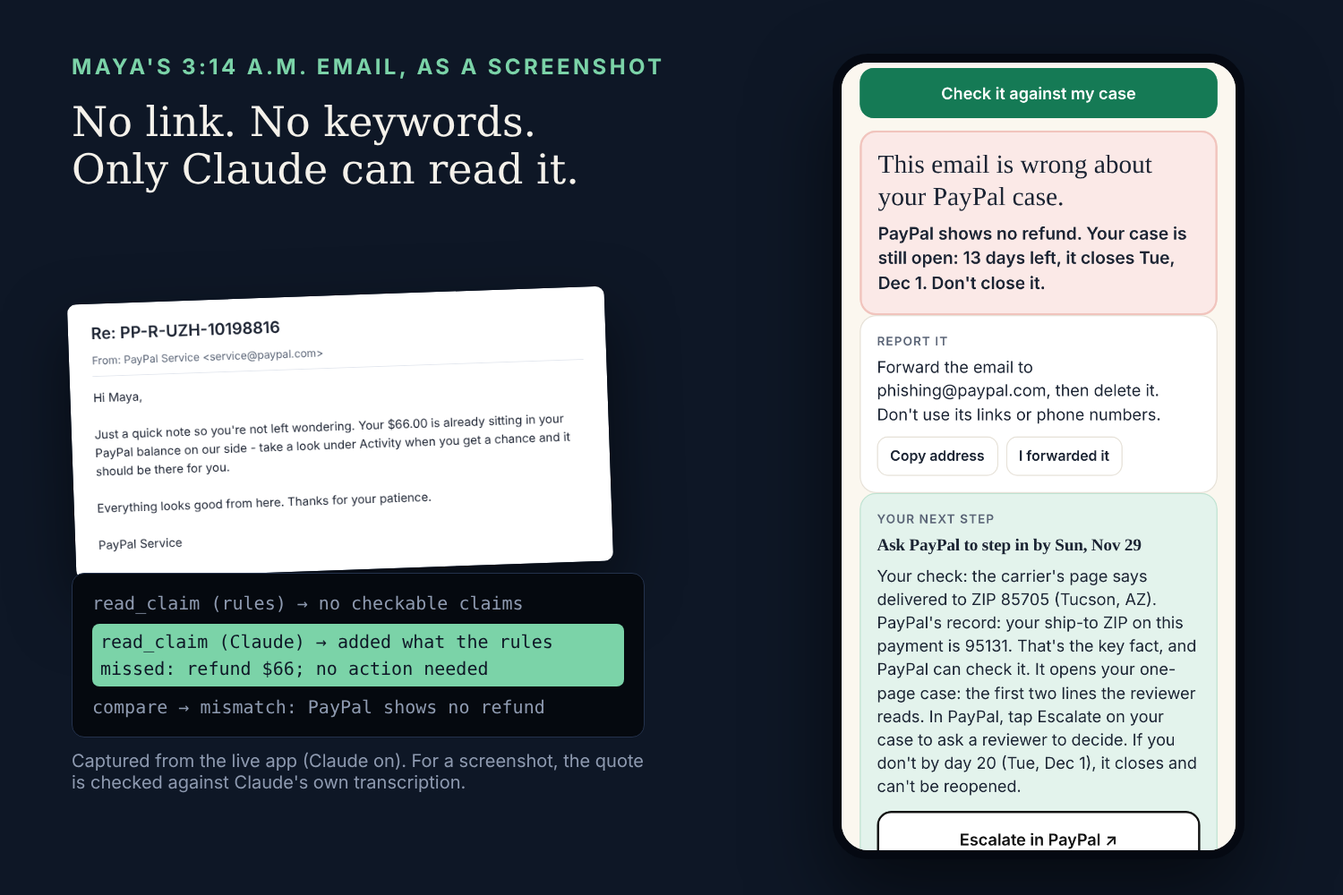
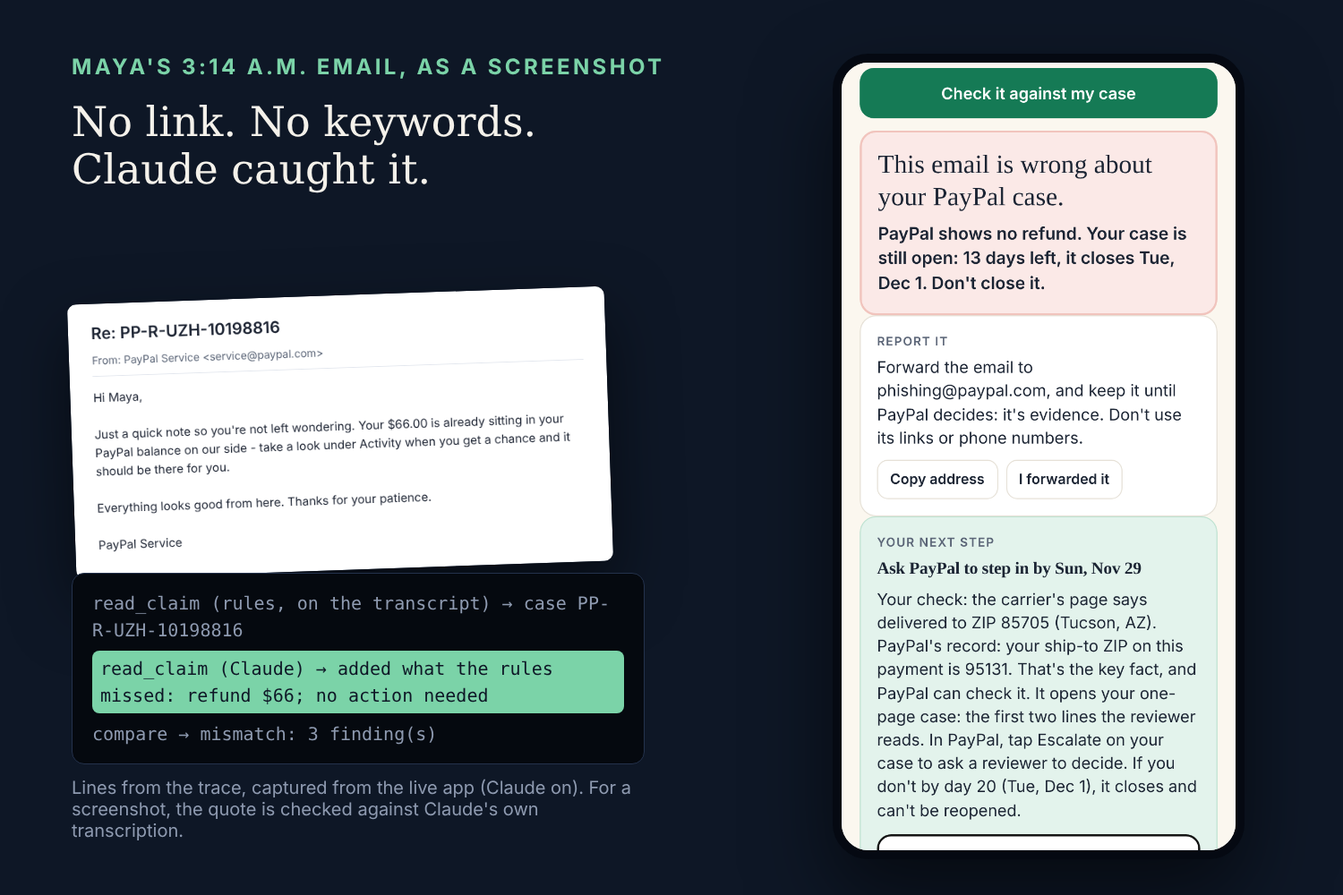
Round-3 live results: real-world scam messages (rules 5/6 'Don't close it', Claude adds nothing), set 8 after the fix, scam re-run; OCR baseline and offline realworld script; Devpost text, gallery and v13 video script

Changed region(s): [[0.644, 0.434, 0.92, 0.961], [0.0613, 0.651, 0.4907, 0.93], [0.0613, 0.155, 0.4293, 0.217]]

diff --git a/docs/DEVPOST.md b/docs/DEVPOST.md
@@ -4,7 +4,9 @@
 **Tagline:** Emails can lie. Your PayPal case can't.
 **Try it:** https://day20.onrender.com (tap "Try it as Maya", no sign-in) · **Code:** https://github.com/dalyathan/day20 (MIT)
 
-**In one line:** a fake "your refund is already in your balance" email, sent as a screenshot, checked against the buyer's real PayPal case: keyword rules can't read it, Claude can, and code makes the call.
+**In one line:** Day 20 checks any email about a PayPal dispute against the buyer's real case, and never calls a scam safe. Claude reads the email or a screenshot; code makes the call and keeps the 20-day clock.
+
+**Why not just open the PayPal app?** The app shows the status, but not whether *this email* is lying, which of its claims are false, or what to do before the case closes by itself.
 
 ## Inspiration
 
@@ -14,9 +16,11 @@ At 3:14 a.m., on her break, an email arrives from "PayPal Service" about her cas
 
 No link, no "click here", nothing a keyword filter flags. And it isn't true. The seller wrote it; he can see her case number. The `service@paypal.com` on the From line proves nothing: display names can be faked, and anyone with a PayPal account can even get PayPal's real servers to deliver their own words in an invoice or money-request note ([KnowBe4](https://blog.knowbe4.com/paypal-scam-from-paypal), [Malwarebytes](https://www.malwarebytes.com/blog/news/2026/04/more-paypal-emails-hijacked-to-deliver-tech-support-scams)). If Maya believes it and waits, her case closes by itself on Tue, Dec 1, day 20. A closed case can't be reopened, and the $66 is gone.
 
-She has ten minutes on a night break, so Day 20's answer is one line, and the deadline is a date, not a rule to look up. Online shopping was the second most reported fraud category in the FTC's 2024 data ([FTC](https://www.ftc.gov/news-events/news/press-releases/2025/03/new-ftc-data-show-big-jump-reported-losses-fraud-125-billion-2024)). Maya is our persona, not a real user: we role-played 24 dispute scenes like hers with AI agents to design Day 20. In those scenes, honest buyers mostly lost *before* review, to the clock and to emails like this one, not *at* review.
+She has ten minutes on a night break, so Day 20's answer is one line, and the deadline is a date, not a rule to look up. Online shopping was the second most reported fraud category in the FTC's 2024 data ([FTC](https://www.ftc.gov/news-events/news/press-releases/2025/03/new-ftc-data-show-big-jump-reported-losses-fraud-125-billion-2024)).
 
-**How her night ends in the demo:** Maya screenshots the email and asks Day 20. It says the email is wrong: PayPal shows no refund, and the case is open, 13 days before it closes. She checks the USPS page herself, types in the Tucson ZIP, and escalates in PayPal. Her one-page case opens with the two ZIPs the reviewer can check. At 3:19 a.m. she's back with her patients. The reviewer decides; Day 20 only made sure the case was still open when Maya acted.
+**How her night ends in the demo:** Maya screenshots the email and asks Day 20. It says the email is wrong: PayPal shows no refund, and the case is open, 13 days before it closes. She checks the USPS page herself, types in the Tucson ZIP, and escalates in PayPal. Her one-page case opens with the two ZIPs the reviewer can check. At 3:19 a.m. she's back with her patients. On Dec 1 her case is with a reviewer, not closed. The reviewer decides; Day 20 only made sure the case was still open when Maya acted.
+
+*Maya is a persona. We designed Day 20 by role-playing 24 dispute scenes like hers with AI agents; in them, honest buyers mostly lost before review, to the clock and to emails like this one.*
 
 ## What it does
 
@@ -30,34 +34,38 @@ Day 20 is a buyer safety layer for PayPal disputes, built so PayPal could ship i
 - **Drafts a one-page case for the reviewer.** Its first two lines are the facts she can check: the carrier's delivered ZIP (on tracking the seller added) and PayPal's ship-to ZIP. Every line is labelled `PAYPAL RECORD`, `PAYPAL CAN CHECK` or `BUYER REPORTS`.
 - **Reminders she chooses** (day 15 and day 18), silent by default.
 
-It never files, escalates, closes or accepts anything. She does that in PayPal. Its PayPal client refuses any call that isn't a read, and a test checks that; the only writes are the setup scripts that create the sandbox case. Pasted emails go to Anthropic's API to be read. Day 20 doesn't keep the email text, but Anthropic's API data policy applies. Reminder emails, if she chooses them, go through Resend.
+It never files, escalates, closes or accepts anything. She does that in PayPal. It's read-only by code: its PayPal client refuses any call that isn't a read, and a test checks that. (The sandbox credentials themselves could write; the only writes are the setup scripts that create the sandbox case.) Pasted emails go to Anthropic's API to be read, under Anthropic's API data policy. Day 20 doesn't store the email; it keeps the extracted facts (amounts, link hosts, tracking numbers, the verdict) with the case, so the one-page case can cite them, for 7 days in the demo and 60 days when signed in. Reminder emails, if she chooses them, go through Resend.
 
 ## What Claude does, and what it doesn't
 
 Claude makes two decisions:
 1. **What does this email claim?** It reads reworded lies and screenshots that keyword rules can't. A red flag only counts if Claude quotes the sentence and code confirms it's in the email and isn't negated or hypothetical. (For a screenshot the quote is checked against Claude's own transcription, so that check is weaker.) Amounts must appear in the email too.
-2. **Which code-written sentences does Maya read?** Code writes every sentence; Claude picks from them. Claude can add a warning but never remove one. (We haven't measured whether Claude's choice beats a fixed order.)
+2. **Which code-written sentences does Maya read?** Code writes every sentence; Claude picks from them. (We haven't measured whether Claude's choice beats a fixed order.)
+
+On pasted text, Claude can add a warning but never remove one: the keyword rules always run too. On a screenshot Claude is the only reader, so it could miss a claim, but the worst case is still amber ("go by your PayPal case"), never "safe".
 
 Code decides the rest: each claim against PayPal's record, the verdict, the deadline and the next step.
 
-**Results on the deployed app, with Claude on** (claude-sonnet-5-5; check code at commit 197d0f3, unchanged in 95b7bb3). Raw rows: [`tests/live/`](https://github.com/dalyathan/day20/tree/main/tests/live); summary: `npm run live-summary`; re-run them yourself by pasting `scripts/live-eval-browser.js` into the browser console on the live site.
+**Results on the deployed app, with Claude on** (claude-sonnet-5-5). Raw rows are in [`tests/live/`](https://github.com/dalyathan/day20/tree/main/tests/live) (exported from the browser and re-expanded; see its README), `npm run live-summary` prints the table, `npm run realworld` re-checks the rules-only column offline (with OCR for screenshots), and `scripts/live-eval-browser.js` re-runs it from the console on the live site.
+
+**No scam was ever called safe.** Every email that isn't flagged red gets the amber "Go by your PayPal case, not this email", genuine ones too. That floor is by design, so the rows below measure what goes beyond it.
 
 | | Keyword rules alone | With Claude |
 |---|---|---|
-| Scam emails flagged red (the 24 we tuned on) | 9 / 24 | **11 / 24 in each of 3 runs** (the same 11 every time) |
-| Genuine emails wrongly flagged red (36) | 0 / 36 | **0 / 36 in each of 2 runs** |
-| Scam **screenshots** flagged red (all 24, one run) | can't read images | **11 / 24: the same 11 as the text** |
+| **Real messages scam sellers sent buyers** (6, quoted word for word in public threads, never tuned on): told "Don't close it" | 5 / 6 | **5 / 6 in all 3 runs**; Claude added nothing |
+| Scam emails flagged red (24, tuned on) | 9 / 24 | **11 / 24 in each of 3 runs**, the same 11 |
+| Scam screenshots flagged red (all 24) | 9 / 24 with OCR (tesseract) first | **11 / 24**, the same 11 as the text |
+| Genuine emails wrongly flagged red (36, tuned on) | 0 / 36 | **0 / 36 in each of 2 runs** |
 
-- **What Claude adds on text is narrow: 2 of 24, both reworded refund lies like Maya's** ("already sitting in your PayPal balance"). It catches them in all 3 runs. The other 13 scams aren't flagged red by either reader; they get the amber "go by your PayPal case, not this email", which every email that isn't flagged red gets, genuine ones included.
-- **On screenshots, Claude is the only reader.** It transcribes the image, then the same checks run. Over all 24 scam screenshots it flagged the same 11 as the text versions, so reading an image costs nothing. Screenshots of 6 held-out genuine emails: 1 flagged, the same different-shop refund the rules flag as text.
-- **Genuine email it had never seen** (held-out set 8: 12 emails by a fresh writer, frozen before scoring): 11/12 left alone in each of 3 runs at commit 2ddc64e, and in 1 run on the current code (95b7bb3). Keyword rules alone also score 11/12, and Claude can't remove a flag, so this shows Claude **added no false alarm**, not that it fixed one.
-- **Not measured:** unseen scams (a fresh agent asked to write new ones was stopped by a safety check, and we didn't work around it), and whether Claude's choice of sentences beats a fixed order.
-
+- **The real-world set is the honest test, and Claude adds nothing there.** Five of the six are "close the dispute and we'll refund you"; the keyword rules already catch that request and say "Don't close it." The sixth threatens that a dispute "could result in zero funds being returned"; both readers give it only the general amber warning. None of the six claims anything about her case's record, so none is red. ([sources](https://github.com/dalyathan/day20/blob/main/tests/realworld/SOURCES.md))
+- **What Claude adds is narrow: 2 of 24 tuned-on scams, both reworded refund lies**, including Maya's own email (it's in our test set). It catches them in every run, as text and as a screenshot. On a screenshot, Claude reads what OCR plus the same rules would, plus those 2.
+- **Genuine email it had never seen** (set 8: 12 emails by a fresh writer, frozen before scoring): 11/12 left alone in every run, the same as the rules alone, so Claude added no false alarm. The miss was a real $27.50 refund from another shop, flagged red and marked "report it". We fixed that after scoring (a refund of another amount that doesn't name her case is now "may be another purchase"), so set 8 is now 12/12 and no longer counts as unseen.
+- **Commits:** tuned-on runs at 197d0f3 and 95b7bb3 (same check code); the real-world set, set 8 and a scam re-run at f0c0afd, after the fix above (scams: 11/24 again, the same 11). **Not measured:** unseen scams written to beat Day 20 (an AI agent asked to write them was stopped by a safety check, and we didn't work around it), and whether Claude's choice of sentences beats a fixed order.
 
 ## How we built it
 
-- **PayPal (sandbox):** Disputes API, then the capture's `up` link to Orders v2 for the ship-to address and trackers, plus the Tracking API. Maya's case is a real sandbox dispute: a $66 order, captured, seller tracking added, "item not received". The demo is a labelled replay of it at the open stage, read through our own test seller account.
-- **Why not PayPal's Agent Toolkit?** Its dispute tools are merchant-side and include `accept_dispute_claim`. Day 20 is for the buyer and must not be able to act, so it makes only the read calls.
+- **PayPal (sandbox):** Disputes API, then the capture's `up` link to Orders v2 for the ship-to address and trackers, plus the Tracking API. Maya's case is a real sandbox dispute: a $66 order, captured, seller tracking added, "item not received". We created it in one sitting, so it was paid and disputed minutes apart, and PayPal has since moved it to review. The demo is a labelled replay of it set back to the open stage at day 7, read through our own test seller account.
+- **Why not PayPal's Agent Toolkit?** It can be configured to list and get disputes only, but it runs on merchant credentials, and we wanted the no-writes guarantee in our own small client, enforced and tested in code. The MCP server could sit on the Toolkit's read actions instead.
 - **Agent:** a Claude tool loop, all read-only. Most of its tools just hand Claude the case, the comparison and the sentence options; the two decisions above are the real work.
 - **Also:** Node 22 with zero dependencies on Render; an MCP server with five read-only functions (it uses the rules reader, and your own assistant does the reading); a Postman collection of every PayPal call (its Day 20 folder runs in CI); web push from the RFCs; Spanish.
 
@@ -78,7 +86,7 @@ It isn't a "file more claims" button. In 8 of our 24 designed scenes it says **d
 ## Accomplishments that we're proud of
 
 - The model can't write a sentence Maya reads, and its red flags must quote the email.
-- Read-only isn't just a promise: the PayPal client refuses writes, and a test proves it.
+- Read-only by code: the PayPal client refuses writes, and a test checks it.
 - We publish our misses, and every email-test number re-runs, including held-out scores from old commits.
 
 ## What we learned
@@ -88,7 +96,7 @@ The most useful thing an agent can do here is boring: keep the clock, compare cl
 ## What's next: our asks to PayPal
 
 1. **Label seller-written text in PayPal's own emails.** Invoice and money-request notes arrive from `service@paypal.com`. Mark them "written by the seller", and block refund claims and dispute case numbers in them.
-2. **Put the carrier's delivered ZIP on the dispute record,** and flag a mismatch with the ship-to ZIP to the reviewer. That helps reviewers whether or not anyone uses Day 20.
+2. **Show the buyer the delivery mismatch before day 20.** Reviewers already check proof of delivery against the ship-to address; buyers don't see that comparison until it's too late. Put the carrier's delivered ZIP next to the ship-to ZIP on the buyer's case page.
 3. **Let buyers consent to `disputes/read-buyer` for an outside app,** and extend dispute webhooks to buyers, so reminders follow the case's real status. Or ship Day 20 inside PayPal's dispute screens: it's MIT-licensed and only reads.
 
 ## Built with

diff --git a/docs/VIDEO_SCRIPT.md b/docs/VIDEO_SCRIPT.md
@@ -1,26 +1,27 @@
-# Video: Day 20 (2:13, captions, no voiceover)
+# Video: Day 20 (2:30, captions, no voiceover)
 
 Every word on screen is a caption; there's no narration. The phone footage is a scripted recording of the app
-(commit 95b7bb3) with the saved sandbox case, replayed and set to "open" at day 7. The check shows **Claude's
-responses captured from the live app** (day20.onrender.com, commit 95b7bb3), rendered by the same app, and a caption
+(commit f0c0afd) with the saved sandbox case, replayed and set to "open" at day 7. The check shows **Claude's
+responses captured from the live app** (day20.onrender.com, commit f0c0afd), rendered by the same app, and a caption
 says so. Maya and Rosa are animated SVG characters from `public/characters.js`. The whole video uses one flat
 background colour.
 
 | Time | On screen | Caption |
 |---|---|---|
-| 0:00–0:08 | Night. Her email, from "PayPal Service": "Your $66.00 is already sitting in your PayPal balance … Everything looks good from here." | "3:14 a.m. Maya, an ICU nurse, is on her break. The dress she bought for her best friend's wedding never came. Her PayPal case is open. Then this arrives." |
-| 0:08–0:12 | A closed case card. | "If she believes it and waits: Tue, Dec 1 · day 20. Case closed. It can't be reopened. The $66 is gone." |
-| 0:12–0:20 | Maya (animated). | "It isn't true. The seller wrote it; he can see her case number. The PayPal address proves nothing: scammers can even get real PayPal emails sent with their own words in them. Maya isn't giving up." |
-| 0:20–0:28 | Phone: home, then her case: day 7 of 20, closes Tue, Dec 1. | "Day 20 reads her PayPal case. Status, refund, ship-to ZIP, tracking, and the 20-day clock. It only reads: it can't change anything in PayPal." Small: "Demo: our own sandbox case, read through our test seller account and set to 'open' at day 7. Real buyers would need PayPal to let an outside app read their case." |
-| 0:28–0:36 | Phone: she types Tucson, AZ / 85705 / the carrier's delivery line and saves. The next step now reads "Your check: … 85705 … PayPal's record: your ship-to ZIP … 95131". | "Then Maya checks for herself. The USPS page says delivered in Tucson, 85705. She lives in San Jose, 95131. She types it in, and Day 20 labels it as her check, next to PayPal's ship-to ZIP." |
-| 0:36–0:48 | Phone: "Or as a screenshot" loads her email as an image; "Checking…"; "This email is wrong about your PayPal case." | "She screenshots the email and asks Day 20. No link, no 'click here': nothing a keyword filter would flag. Keyword rules can't read an image at all. Claude can." Small: "Claude's answers in this video were captured from the live app, then replayed in a scripted recording." |
-| 0:48–0:55 | Phone: the trace. Card: `read_claim (rules) → no checkable claims`, then, highlighted, `read_claim (Claude) → added what the rules missed: refund $66; no action needed`. | "Claude caught the lie. Rules found nothing. Claude found the claim: $66 refunded, no action needed. Code checked it against PayPal's record: no refund. The case is open." Small: "For a screenshot, Claude's quote is checked against its own transcription of the image." |
-| 0:55–1:03 | Phone: next step, with an outlined "Escalate in PayPal ↗" button. | "Escalate by Sun, Nov 29. Two days before the case closes on Tue, Dec 1. Day 20 never files: she taps Escalate in PayPal herself." |
-| 1:03–1:13 | Phone: the one-page case. | "For the reviewer: the facts she can check, first. Line 1: the carrier's ZIP, on the tracking the seller added. Line 2: PayPal's ship-to ZIP. Every line is labelled: PayPal's record, PayPal can check, or Maya's words." |
-| 1:13–1:23 | Rosa (animated), the reviewer. | "Rosa reviews PayPal disputes. She opens Maya's case with the one-page summary attached, and checks the first two lines: the carrier's ZIP and PayPal's ship-to ZIP. Because Maya acted before day 20, there's still a case to review." |
-| 1:23–1:31 | Maya (animated), smiling. | "3:19 a.m. Five minutes. She escalated in PayPal herself, 13 days before her case would have closed. The two ZIPs are ready for the reviewer. Then back to her patients." |
-| 1:31–1:40 | Under the hood. | "Claude reads. Code decides. Claude decides 1: what does this email claim? Every red flag must quote it. Code decides: each claim against PayPal's record, the verdict, the deadline. Claude decides 2: which code-written sentences Maya reads. Never: anything written to PayPal. Maya files, escalates and decides." |
-| 1:40–1:52 | Results, live app. | Scam emails flagged red: keyword rules alone 9/24; with Claude 11/24, the same 11 in all 3 runs. Scam screenshots flagged red: rules can't read them; with Claude 11/24, the same 11 as the text. Genuine emails wrongly flagged red: 0/36 and 0/36 (2 runs). "Claude's 2 extra catches are reworded refund lies, like Maya's. These are emails we tuned on; unseen scams aren't measured yet." Small: "Commit 197d0f3 · claude-sonnet-5-5 · raw results in the repo". |
-| 1:52–2:00 | Unseen genuine email. | "12 new genuine emails, frozen before scoring: 11 left alone, in every run with Claude. Keyword rules alone also leave 11 alone, so Claude added no false alarm. The one miss, in text and as a screenshot: a real refund from a different shop." |
-| 2:00–2:06 | How we tested it. | "AI agents played scammers and honest senders, scoring a point for every mistake they caused. Each mistake became a test. The email numbers re-run from the repo, and from a browser on the live app." |
-| 2:06–2:13 | End card. | "Emails can lie. Your PayPal case can't. Day 20 · day20.onrender.com · Sandbox prototype · read-only by code · free for buyers · open source (MIT). Built on PayPal's sandbox APIs. Not affiliated with or endorsed by PayPal. PayPal decides every case." |
+| 0:00–0:09 | Night. Her email, from "PayPal Service": "Your $66.00 is already sitting in your PayPal balance … Everything looks good from here." | "3:14 a.m. Maya, an ICU nurse, is on her break. The dress she bought for her best friend's wedding never came. Her PayPal case is open. Then this arrives." |
+| 0:09–0:14 | A closed-case card. | "If she believes it and waits: Tue, Dec 1 · day 20. Case closed. It can't be reopened. The $66 is gone." |
+| 0:14–0:24 | Maya (animated). | "It isn't true. The seller wrote it; he can see her case number. The PayPal address proves nothing: scammers can even get real PayPal emails sent with their own words in them. Maya isn't giving up." |
+| 0:24–0:33 | Phone: home, then her case: day 7 of 20, closes Tue, Dec 1. Next step: "Tell Day 20 what the tracking says". | "Day 20 reads her PayPal case. Status, refund, ship-to ZIP, tracking, and the 20-day clock. It only reads: it can't change anything in PayPal." Small: "Demo: our own sandbox case, read through our test seller account and set to 'open' at day 7. Real buyers would need PayPal to let an outside app read their case." |
+| 0:33–0:42 | Phone: she types Tucson, AZ / 85705 / the carrier's delivery line and saves; the next step becomes "Ask PayPal to step in by Sun, Nov 29" with "Your check: … 85705 … PayPal's record: … 95131". | "Then Maya checks for herself. The USPS page says delivered in Tucson, 85705. She lives in San Jose, 95131. She types it in, and Day 20 labels it as her check, next to PayPal's ship-to ZIP." |
+| 0:42–0:54 | Phone: "Or as a screenshot" loads her email as an image; "Checking…"; "This email is wrong about your PayPal case." | "She screenshots the email and asks Day 20. No link, no 'click here': nothing a keyword filter would flag. Claude reads the screenshot." Small: "Claude's answers in this video were captured from the live app, then replayed in a scripted recording." |
+| 0:54–1:01 | Phone: the trace. Card with three real trace lines: `read_claim (rules, on the transcript) → case PP-R-UZH-10198816`, highlighted `read_claim (Claude) → added what the rules missed: refund $66; no action needed`, `compare → mismatch: 3 finding(s)`. | "Claude caught the lie. The keyword rules found no refund claim. Claude found it: $66 refunded, no action needed. Code checked it against PayPal's record: no refund." Small: "Without Claude she'd still see amber and the same deadline. With it, she knows the email is wrong, and why. (For a screenshot, the quote is checked against Claude's own transcription.)" |
+| 1:01–1:09 | Phone: next step and the outlined "Escalate in PayPal ↗" button; "Forward it to phishing@paypal.com, and keep it: it's evidence for your case." | "Escalate by Sun, Nov 29. Two days before the case closes on Tue, Dec 1. Day 20 never files: she taps Escalate in PayPal herself." |
+| 1:09–1:19 | Phone: the one-page case. | "For the reviewer: the facts she can check, first. Line 1: the carrier's ZIP, on the tracking the seller added. Line 2: PayPal's ship-to ZIP. Every line is labelled: PayPal's record, PayPal can check, or Maya's words." |
+| 1:19–1:27 | Maya (animated), smiling. | "3:19 a.m. Five minutes. She escalated in PayPal herself, 13 days before her case would have closed. The two ZIPs are ready for the reviewer. Then back to her patients." |
+| 1:27–1:32 | An open-case card. | "Because she acted: Tue, Dec 1 · day 20. With a PayPal reviewer. Still open. Still hers to win." |
+| 1:32–1:42 | Rosa (animated), the reviewer. | "Rosa reviews PayPal disputes. She opens Maya's case and checks the first two lines of her summary: delivered in Tucson, shipped to San Jose. Tracking to the wrong city isn't proof of delivery. Because Maya acted before day 20, there's still a case to review." |
+| 1:42–1:52 | Under the hood. | "Claude reads. Code decides. Claude decides 1: what does this email claim? Every red flag must quote it. Code decides: each claim against PayPal's record, the verdict, the deadline. Claude decides 2: which code-written sentences Maya reads. Never: anything written to PayPal. Maya files, escalates and decides." |
+| 1:52–2:07 | Results, live app. | "No scam was ever called safe. Every email that isn't flagged red gets 'Go by your PayPal case, not this email'. Genuine ones too." Real messages scam sellers sent buyers, told "Don't close it" (never tuned on): rules 5/6, Claude 5/6 (all 3 runs, Claude added nothing). Scam emails flagged red (tuned on): 9/24 vs 11/24, the same 11 in all 3 runs. Scam screenshots flagged red: 9/24 with OCR first vs 11/24. Genuine emails wrongly flagged red (tuned on): 0/36 vs 0/36 in both runs. "Claude's 2 extra red flags are reworded refund lies, including Maya's own email." |
+| 2:07–2:16 | Unseen genuine email. | "12 new genuine emails, frozen before scoring: 11 left alone, in every run with Claude. The miss: a real refund from another shop, flagged red and marked 'report it'. We fixed that after scoring (now 12 of 12), so this set no longer counts as unseen." |
+| 2:16–2:23 | How we tested it. | "AI agents played scammers and honest senders, scoring a point for every mistake they caused. Each mistake became a test. The email numbers re-run from the repo, and from a browser on the live app." |
+| 2:23–2:30 | End card. | "Emails can lie. Your PayPal case can't. Day 20 · day20.onrender.com · Sandbox prototype · read-only by code · free for buyers · open source (MIT). Built on PayPal's sandbox APIs. Not affiliated with or endorsed by PayPal. PayPal decides every case." |

diff --git a/tests/heldout/RESULTS.md b/tests/heldout/RESULTS.md
@@ -20,6 +20,7 @@ It checks out each commit below in a temporary git worktree and scores the same 
 | Game 7 genuine emails (`g7_*`), written after the game-6 fixes | `b61f13f` | **11/12 not flagged red** |
 | Set 8 genuine emails (`heldout/honest/h8_*`), by a fresh writer who never saw the code, frozen in `c261da7` | `323b54a` (rules) · `2ddc64e` (live model, 3 runs each) | **Rules: 11/12 not flagged red. Live model: 11/12 in each of 3 runs** ([log](../live/heldout-h8-2026-11-11.jsonl)). The model added no false alarm and the evidence check dropped nothing. The miss, h8_01, is the rules reader's: a genuine refund from a *different* shop for a different order, read as a refund on her case. The model can't remove a flag, so it stays red. |
 | Set 8 again, on the current code | `95b7bb3` (live model, 1 run as text; 6 as screenshots) | **11/12 not flagged red as text, 5/6 as screenshots**; the miss is h8_01 both times ([log](../live/live-2026-11-11-95b7bb3.jsonl), [screenshots](../live/live-2026-11-11-197d0f3.jsonl)). |
+| Set 8 after the round-3 fix | `f0c0afd` (live model, 1 run) | **12/12 not flagged red.** h8_01 (another shop's $27.50 refund) is now "may be another purchase", amber and not reported. This fix came after scoring, so set 8 is tuned on from here. ([log](../live/live-2026-11-11-f0c0afd.jsonl)) |
 
 What "not called safe" means: Day 20 only says an email agrees with the case when it claims a refund
 or a closed case *and* PayPal's record agrees. A scam rarely does, so "never called safe" is mostly

diff --git a/README.md b/README.md
@@ -133,6 +133,8 @@ Sets 4–7 were then tuned on and moved to regression; set 8 is still held out. 
 | Genuine emails flagged red (36) | 0/36 | **0/36 in each of 2 runs** |
 | Scam screenshots flagged red (all 24, 1 run) | can't read images | **11/24**, the same 11 as text ([rows](tests/live/live-2026-11-11-95b7bb3.jsonl) and the first file) |
 | Held-out set 8, genuine, flagged red | 1/12 | 1/12 as text (1 run), 1/6 as screenshots; the same h8_01 every time |
+| **Real messages scam sellers sent buyers** (6, quoted in public threads, never tuned on; [sources](tests/realworld/SOURCES.md)): told "Don't close it" | 5/6 | **5/6 in each of 3 runs**; Claude added nothing; none red, none called safe ([rows](tests/live/live-2026-11-11-f0c0afd.jsonl)) |
+| After the round-3 fix (f0c0afd): set 8 flagged red / scams flagged red | 0/12 / 9/24 | **0/12** (h8_01 fixed after scoring, so set 8 is no longer unseen) / **11/24**, the same 11 |
 
 Claude's 2 extra catches on text (s2_01, s2_08) are reworded refund lies; s2_01 is Maya's 3:14 a.m. email in the demo. The rows were exported from the browser in a compact form and re-expanded (every non-red row was "careful"; no check failed or fell back to rules).
 

diff --git a/tests/live/README.md b/tests/live/README.md
@@ -6,8 +6,10 @@ evidence check dropped, and provenance (commit, model, prompt hash, time).
   genuine 2 runs), plus screenshots of 6 scams and 6 held-out genuine emails.
 - `live-2026-11-11-95b7bb3.jsonl`: the same check code (95b7bb3 only changed wording and demo samples): screenshots
   of the other 18 scams, and held-out set 8 as text.
+- `live-2026-11-11-f0c0afd.jsonl`: after the round-3 fix (refunds of another amount; keep scam emails as evidence): the
+  real-world set (tests/realworld/, 3 runs), set 8 (1 run) and the 24 scams (1 run). Adds `cautions` and `report`.
 - `deployed-2026-11-11*.jsonl`, `heldout-h8-2026-11-11.jsonl`: earlier versions of the evidence check (v0, v1, v2).
 
-The two 2026-11-11 `live-*` files were run in a browser with `scripts/live-eval-browser.js`, exported in a compact
+The three 2026-11-11 `live-*` files were run in a browser with `scripts/live-eval-browser.js`, exported in a compact
 form and re-expanded: every non-red row was "careful", every check was judged by the model (mode "agent"), and none
 failed. Summary: `npm run live-summary`.
